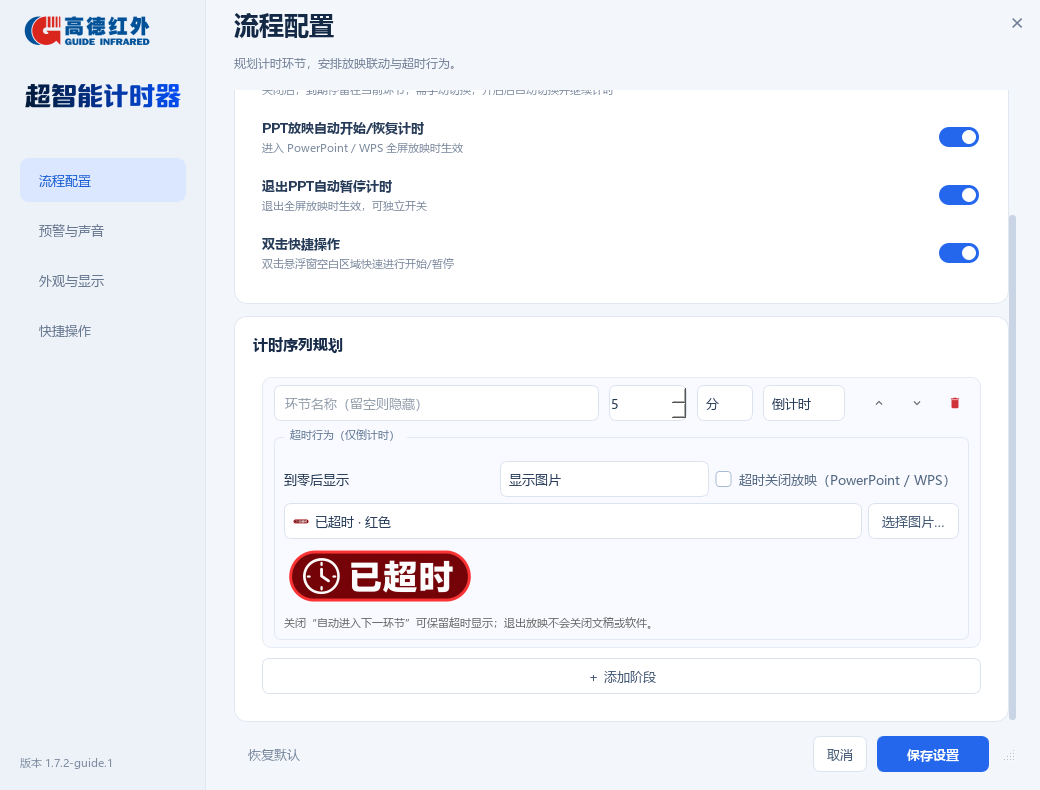
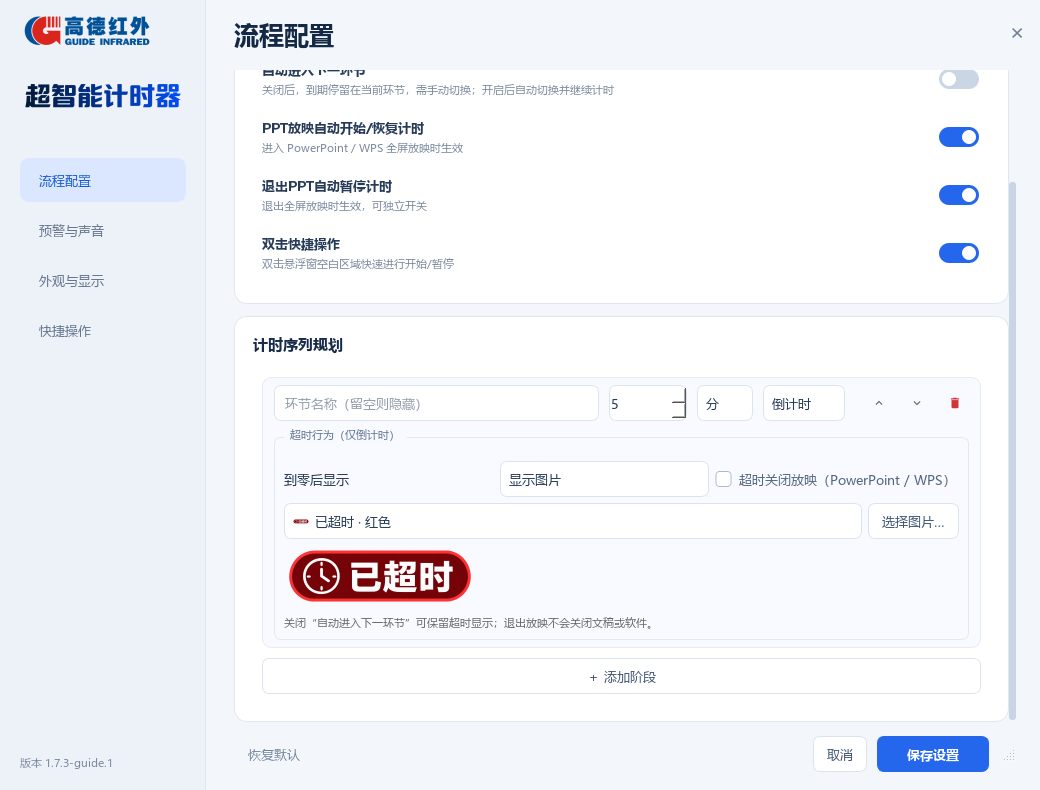
style: 精简流程标题说明并统一标题纵向留白

diff --git a/main.py b/main.py
@@ -21,7 +21,7 @@ from color_sampling import inverse_background, sample_underlay, set_capture_excl
 
 APP_ID = "QTimer"  # Stable storage/instance identity preserves existing installations.
 __app_name__ = "超智能计时器"
-__version__ = "1.7.2-guide.1"
+__version__ = "1.7.3-guide.1"
 FORK_URL = "https://github.com/zhouliangchen/QTimer"
 __author__ = "QwejayHuang"
 __company__ = "QwejayHuang"
@@ -1184,7 +1184,7 @@ class SettingsWindow(QDialog):
         handle.setAccessibleName("拖动或缩放设置窗口")
         handle.setToolTip("拖动标题行移动窗口，上沿或右沿可缩放；双击最大化或还原")
         handle_layout = QHBoxLayout(handle)
-        handle_layout.setContentsMargins(0, 8, 0, 0)
+        handle_layout.setContentsMargins(0, 18, 0, 0)
         handle_layout.addWidget(self.page_title)
         handle_layout.addStretch()
         handle_layout.addWidget(self.btn_close, 0, Qt.AlignmentFlag.AlignTop)
@@ -1281,7 +1281,7 @@ class SettingsWindow(QDialog):
 
     def _change_page(self, idx: int) -> None:
         titles = [
-            ("流程配置", "规划计时环节，安排放映联动与超时行为。"),
+            ("流程配置", ""),
             ("预警与声音", ""),
             ("外观与显示", ""),
             ("快捷操作", ""),

diff --git a/README.md b/README.md
@@ -1,6 +1,6 @@
 # 超智能计时器
 
-基于 Qwejay/QTimer 的二次开发版本，当前版本 `1.7.2-guide.1`。新增左右自适应抽屉、非模态设置、环节超时文字/图片与自动退出放映、持续闪烁等功能，并修复新版 WPS 放映识别。
+基于 Qwejay/QTimer 的二次开发版本，当前版本 `1.7.3-guide.1`。新增左右自适应抽屉、非模态设置、环节超时文字/图片与自动退出放映、持续闪烁等功能，并修复新版 WPS 放映识别。
 
 本版重新设计设置界面，移除“全局穿透度”，修复通透度恢复默认，并增加边缘拖动阈值脱附。Windows 运行入口为 `启动超智能计时器.vbs`。
 
@@ -11,6 +11,8 @@
 1.7.1 将关闭按钮并入页面标题行，左下角版本号链接至本 fork；重构悬浮抽屉动画，固定计时文字的位置与绘制坐标，消除右侧展开/收回的字体抖动，并支持平滑换边与动画中途反向。
 
 1.7.2 移除标题上方遗漏的外部留白，将顶部侧栏与内容区的空白统一纳入拖动区域，并修复拖动调用成功但窗口没有移动的问题。
+
+1.7.3 删除流程配置标题下的说明文字，统一将四页标题下移 10 像素，标题区域的留白仍支持拖动与边缘缩放。
 
 **[安装、功能与测试说明](docs/定制版说明.md)** · [维护仓库](https://github.com/zhouliangchen/QTimer) · [原作者仓库](https://github.com/Qwejay/QTimer)
 

diff --git a/docs/定制版说明.md b/docs/定制版说明.md
@@ -1,6 +1,11 @@
-# 超智能计时器 1.7.2-guide.1
+# 超智能计时器 1.7.3-guide.1
 
 本项目是基于 [Qwejay/QTimer](https://github.com/Qwejay/QTimer) 的二次开发版本，保留原作者版权与 GPL-3.0 许可证。维护仓库：[zhouliangchen/QTimer](https://github.com/zhouliangchen/QTimer)。修改日期：2026-10-21。
+
+## 1.7.3 更新
+
+- 删除“流程配置”标题下的小字说明，与其他三页保持一致。
+- 通过标题行内部间距统一将四页标题下移 10 像素，改善顶部留白与视觉平衡；顶部空白继续属于拖动区域，边缘缩放不变。
 
 ## 1.7.2 更新
 
